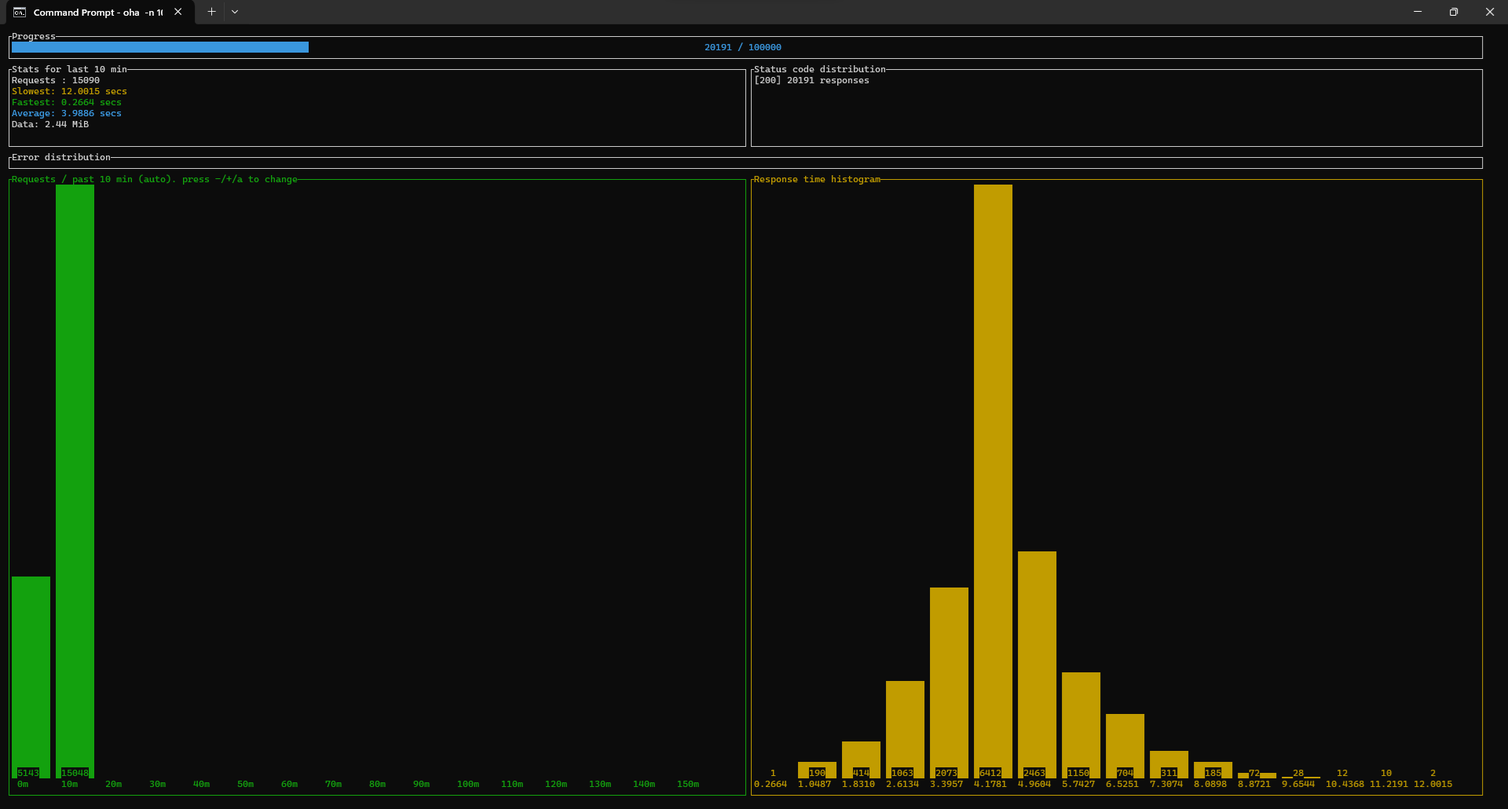
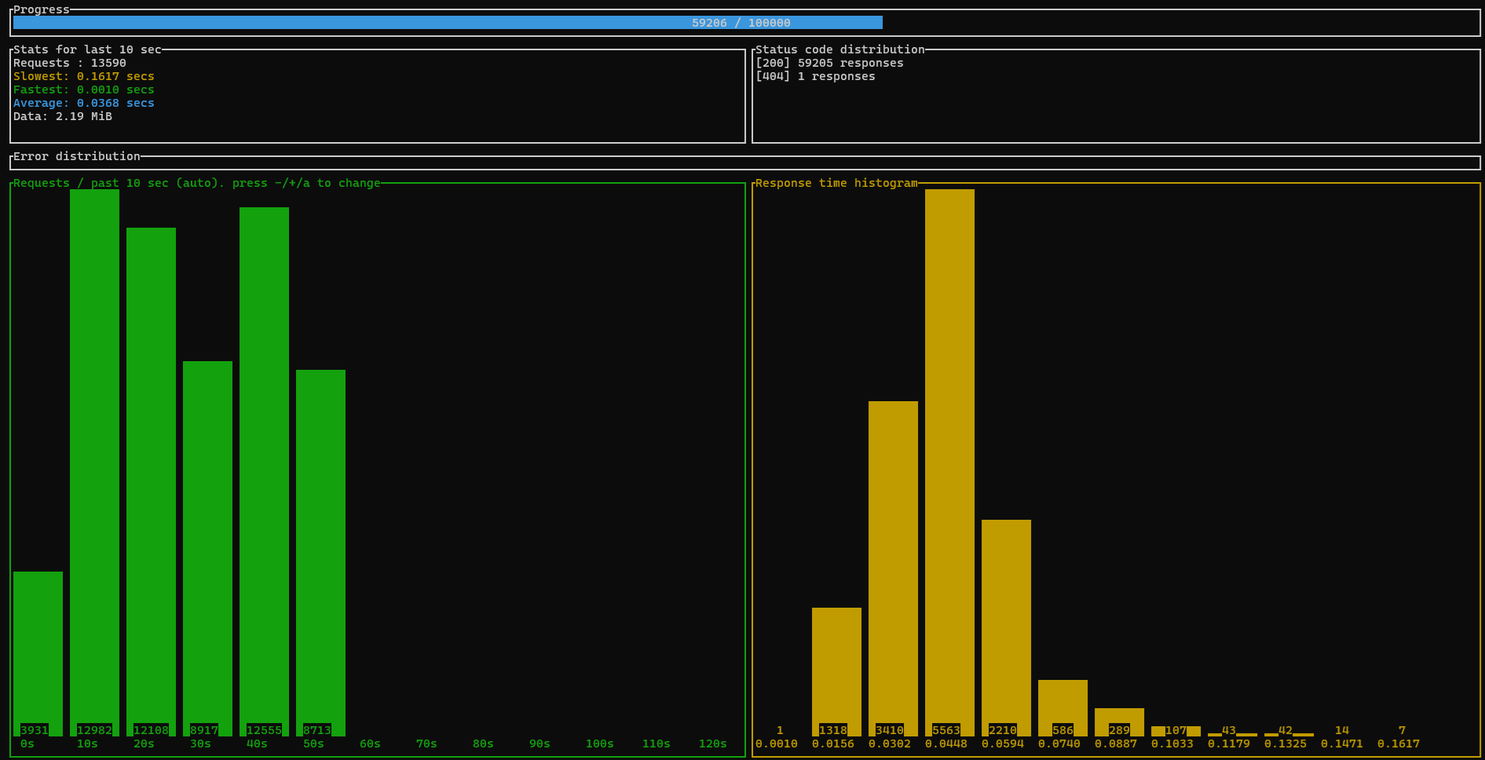
Execution and comparison of various results between OpenJDK & GraalVM

Changed region(s): [[0.0, 0.0, 1.0, 1.0]]

diff --git a/src/main/java/io/jayaprabahar/graalvm/graalvm_performance_test/GraalvmPerformanceTestApplication.java b/src/main/java/io/jayaprabahar/graalvm/graalvm_performance_test/GraalvmPerformanceTestApplication.java
@@ -6,7 +6,7 @@ import org.springframework.boot.autoconfigure.SpringBootApplication;
 @SpringBootApplication
 public class GraalvmPerformanceTestApplication {
 
-	static void main(String[] args) {
+	public static void main(String[] args) {
 		SpringApplication.run(GraalvmPerformanceTestApplication.class, args);
 	}
 

diff --git a/README_GraalVM.md b/README_GraalVM.md
@@ -1,9 +1,17 @@
 # Application using GraalVM JDK 25
 
-## 0. Pre-requesties
+## Pre-requesties
 * Install GraalVM JDK 25 https://www.graalvm.org/latest/getting-started/windows/
 
-## 1. Build
+## 1 Build
+### 1.1 Build Steps
+```
+mvn clean compile
+mvn spring-boot:process-aot
+mvn native:compile
+```
+
+### 1.2 Build Log
 
 ```
   .   ____          _            __ _ _
@@ -143,21 +151,69 @@ Finished generating 'graalvm-performance-test' in 5m 16s.
 [INFO] Total time:  05:45 min
 [INFO] Finished at: 2025-10-17T00:02:57+02:00
 [INFO] ------------------------------------------------------------------------
+```
 
+### 1.3 Build Size
+![screenshot](results_graalvm/build_image_size_GraalVM.png)
+
+### 1.4 Build Time
+![screenshot](results_graalvm/build_time_GraalVM.png)
+
+### 1.5 Build Impact on RAM
+GraalVM Build creation has higher impact on RAM.
+
+This can be tested by adjusting Xmx JVM argument inside org.graalvm.buildtools -> native-maven-plugin.
+
+```
+<plugin>
+    <groupId>org.graalvm.buildtools</groupId>
+    <artifactId>native-maven-plugin</artifactId>
+    .
+    .
+            <buildArg>-J-Xmx16G</buildArg>                      
+```
+#### Build Performance with 2 GB JVM Config
+![screenshot](results_graalvm/build_cpu_2GB_RAM.png)
+#### Build Performance with 16 GB JVM Config
+![screenshot](results_graalvm/build_cpu_16GB_RAM.png)
+#### Build Performance with 32 GB JVM Config
+![screenshot](results_graalvm/build_cpu_32GB_RAM.png)
+
+### 1.5 Build Impact on CPU
+GraalVM Build has higher impact on CPU, due to RAM. This is because after creating usual spring-boot executable jar, it starts native image compilation process. 
+
+```
+[INFO] --- jar:3.4.2:jar (default-jar) @ graalvm-performance-test ---
+[INFO] Building jar: C:\Users\Jayap\IdeaProjects\graalvm-performance-test\target\graalvm-performance-test-0.0.1-SNAPSHOT.jar
+[INFO]
+[INFO] --- spring-boot:4.0.0-SNAPSHOT:repackage (repackage) @ graalvm-performance-test ---
+[INFO] Replacing main artifact C:\Users\Jayap\IdeaProjects\graalvm-performance-test\target\graalvm-performance-test-0.0.1-SNAPSHOT.jar with repackaged archive, adding nested dependencies in BOOT-INF/.
+[INFO] The original artifact has been renamed to C:\Users\Jayap\IdeaProjects\graalvm-performance-test\target\graalvm-performance-test-0.0.1-SNAPSHOT.jar.original
+[INFO]
+[INFO] <<< native:0.11.1:compile (default-cli) < package @ graalvm-performance-test <<<
+[INFO] Found GraalVM installation from GRAALVM_HOME variable.
+[INFO] Downloaded GraalVM reachability metadata repository from file:/C:/Users/Jayap/.m2/repository/org/graalvm/buildtools/graalvm-reachability-metadata/0.11.1/graalvm-reachability-metadata-0.11.1-repository.zip
+```
+
+This requires lot of sequential steps, to finally create a native executable file. (*.exe for windows)
+
+```
+[1/8] Initializing...                                                                                   (18.7s @ 0.29GB)
+[2/8] Performing analysis...  [******]                                                                 (152.3s @ 3.11GB)
+[3/8] Building universe...                                                                              (19.9s @ 3.49GB)
+[4/8] Parsing methods...      [****]                                                                    (15.8s @ 3.78GB)
+[5/8] Inlining methods...     [***]                                                                      (8.1s @ 3.94GB)
+[6/8] Compiling methods...    [**********]                                                              (96.5s @ 3.01GB)
+[7/8] Laying out methods...   [****]                                                                    (19.6s @ 3.87GB)
+[8/8] Creating image...       [****]                                                                    (13.2s @ 4.39GB)
 ```
 
 
-### 1.1 Image Size
-![screenshot](results_jdk/build_image_size_JDK.png)
-
-### 1.1 Time to Build
-![screenshot](build_time_JDK.png)
-
+![screenshot](results_graalvm/build_time_GraalVM.png)
 
 ## 2. Start-up Time
 
 ```
-
   .   ____          _            __ _ _
  /\\ / ___'_ __ _ _(_)_ __  __ _ \ \ \ \
 ( ( )\___ | '_ | '_| | '_ \/ _` | \ \ \ \
@@ -167,65 +223,51 @@ Finished generating 'graalvm-performance-test' in 5m 16s.
 
  :: Spring Boot ::       (v4.0.0-SNAPSHOT)
 
-2025-10-17T00:03:22.139+02:00  INFO 17592 --- [graalvm-performance-test] [           main] [                                                 ] .j.g.g.GraalvmPerformanceTestApplication : Starting AOT-processed GraalvmPerformanceTestApplication using Java 25 with PID 17592 (C:\Users\Jayap\IdeaProjects\graalvm-performance-test\target\graalvm-performance-test.exe started by Jayap in C:\Users\Jayap\IdeaProjects\graalvm-performance-test\target)
-2025-10-17T00:03:22.139+02:00  INFO 17592 --- [graalvm-performance-test] [           main] [                                                 ] .j.g.g.GraalvmPerformanceTestApplication : No active profile set, falling back to 1 default profile: "default"
-2025-10-17T00:03:22.181+02:00  INFO 17592 --- [graalvm-performance-test] [           main] [                                                 ] o.s.boot.tomcat.TomcatWebServer          : Tomcat initialized with port 8080 (http)
-2025-10-17T00:03:22.184+02:00  INFO 17592 --- [graalvm-performance-test] [           main] [                                                 ] o.apache.catalina.core.StandardService   : Starting service [Tomcat]
-2025-10-17T00:03:22.184+02:00  INFO 17592 --- [graalvm-performance-test] [           main] [                                                 ] o.apache.catalina.core.StandardEngine    : Starting Servlet engine: [Apache Tomcat/11.0.13]
-2025-10-17T00:03:22.209+02:00  INFO 17592 --- [graalvm-performance-test] [           main] [                                                 ] b.w.c.s.WebApplicationContextInitializer : Root WebApplicationContext: initialization completed in 69 ms
-2025-10-17T00:03:22.258+02:00  INFO 17592 --- [graalvm-performance-test] [           main] [                                                 ] org.mongodb.driver.client                : MongoClient with metadata {"driver": {"name": "mongo-java-driver|spring-boot|sync", "version": "5.6.1"}, "os": {"type": "Windows", "name": "Windows 11", "architecture": "amd64", "version": "10.0"}, "platform": "Java/Oracle Corporation/25+37-LTS-jvmci-b01"} created with settings MongoClientSettings{readPreference=primary, writeConcern=WriteConcern{w=null, wTimeout=null ms, journal=null}, retryWrites=true, retryReads=true, readConcern=ReadConcern{level=null}, credential=null, transportSettings=null, commandListeners=[io.micrometer.core.instrument.binder.mongodb.MongoMetricsCommandListener@38bbcbc5], codecRegistry=ProvidersCodecRegistry{codecProviders=[ValueCodecProvider{}, BsonValueCodecProvider{}, DBRefCodecProvider{}, DBObjectCodecProvider{}, DocumentCodecProvider{}, CollectionCodecProvider{}, IterableCodecProvider{}, MapCodecProvider{}, GeoJsonCodecProvider{}, GridFSFileCodecProvider{}, Jsr310CodecProvider{}, JsonObjectCodecProvider{}, BsonCodecProvider{}, com.mongodb.client.model.mql.ExpressionCodecProvider@11f69806, com.mongodb.Jep395RecordCodecProvider@7302a632, com.mongodb.KotlinCodecProvider@42d56503, EnumCodecProvider{}]}, loggerSettings=LoggerSettings{maxDocumentLength=1000}, clusterSettings={hosts=[localhost:27017], srvServiceName=mongodb, mode=SINGLE, requiredClusterType=UNKNOWN, requiredReplicaSetName='null', serverSelector='null', clusterListeners='[]', serverSelectionTimeout='30000 ms', localThreshold='15 ms'}, socketSettings=SocketSettings{connectTimeoutMS=10000, readTimeoutMS=0, receiveBufferSize=0, proxySettings=ProxySettings{host=null, port=null, username=null, password=null}}, heartbeatSocketSettings=SocketSettings{connectTimeoutMS=10000, readTimeoutMS=10000, receiveBufferSize=0, proxySettings=ProxySettings{host=null, port=null, username=null, password=null}}, connectionPoolSettings=ConnectionPoolSettings{maxSize=100, minSize=0, maxWaitTimeMS=120000, maxConnectionLifeTimeMS=0, maxConnectionIdleTimeMS=0, maintenanceInitialDelayMS=0, maintenanceFrequencyMS=60000, connectionPoolListeners=[io.micrometer.core.instrument.binder.mongodb.MongoMetricsConnectionPoolListener@1aa31595], maxConnecting=2}, serverSettings=ServerSettings{heartbeatFrequencyMS=10000, minHeartbeatFrequencyMS=500, serverMonitoringMode=AUTO, serverListeners='[]', serverMonitorListeners='[]'}, sslSettings=SslSettings{enabled=false, invalidHostNameAllowed=false, context=null}, applicationName='null', compressorList=[], uuidRepresentation=UNSPECIFIED, serverApi=null, autoEncryptionSettings=null, dnsClient=null, inetAddressResolver=null, contextProvider=null, timeoutMS=null}
-2025-10-17T00:03:22.270+02:00  INFO 17592 --- [graalvm-performance-test] [localhost:27017] [                                                 ] org.mongodb.driver.cluster               : Monitor thread successfully connected to server with description ServerDescription{address=localhost:27017, type=STANDALONE, cryptd=false, state=CONNECTED, ok=true, minWireVersion=0, maxWireVersion=27, maxDocumentSize=16777216, logicalSessionTimeoutMinutes=30, roundTripTimeNanos=2051300, minRoundTripTimeNanos=0}
-2025-10-17T00:03:22.392+02:00  WARN 17592 --- [graalvm-performance-test] [           main] [                                                 ] i.m.c.i.binder.jvm.JvmGcMetrics          : GC notifications will not be available because no GarbageCollectorMXBean of the JVM provides any. GCs=[young generation scavenger, complete scavenger]
-2025-10-17T00:03:22.404+02:00  INFO 17592 --- [graalvm-performance-test] [           main] [                                                 ] o.s.b.a.e.web.EndpointLinksResolver      : Exposing 2 endpoints beneath base path '/actuator'
-2025-10-17T00:03:22.439+02:00  INFO 17592 --- [graalvm-performance-test] [           main] [                                                 ] o.s.boot.tomcat.TomcatWebServer          : Tomcat started on port 8080 (http) with context path '/'
-2025-10-17T00:03:22.442+02:00  INFO 17592 --- [graalvm-performance-test] [           main] [                                                 ] .j.g.g.GraalvmPerformanceTestApplication : Started GraalvmPerformanceTestApplication in 0.333 seconds (process running for 0.367)
+2025-10-20T14:21:37.601+02:00  INFO 15124 --- [graalvm-performance-test] [           main] [                                                 ] .j.g.g.GraalvmPerformanceTestApplication : Starting AOT-processed GraalvmPerformanceTestApplication using Java 25 with PID 15124 (C:\Users\Jayap\IdeaProjects\graalvm-performance-test\target\graalvm-performance-test.exe started by Jayap in C:\Users\Jayap\IdeaProjects\graalvm-performance-test\target)
+2025-10-20T14:21:37.601+02:00  INFO 15124 --- [graalvm-performance-test] [           main] [                                                 ] .j.g.g.GraalvmPerformanceTestApplication : No active profile set, falling back to 1 default profile: "default"
+2025-10-20T14:21:37.642+02:00  INFO 15124 --- [graalvm-performance-test] [           main] [                                                 ] o.s.boot.tomcat.TomcatWebServer          : Tomcat initialized with port 8080 (http)
+2025-10-20T14:21:37.645+02:00  INFO 15124 --- [graalvm-performance-test] [           main] [                                                 ] o.apache.catalina.core.StandardService   : Starting service [Tomcat]
+2025-10-20T14:21:37.645+02:00  INFO 15124 --- [graalvm-performance-test] [           main] [                                                 ] o.apache.catalina.core.StandardEngine    : Starting Servlet engine: [Apache Tomcat/11.0.13]
+2025-10-20T14:21:37.670+02:00  INFO 15124 --- [graalvm-performance-test] [           main] [                                                 ] b.w.c.s.WebApplicationContextInitializer : Root WebApplicationContext: initialization completed in 68 ms
+2025-10-20T14:21:37.702+02:00  INFO 15124 --- [graalvm-performance-test] [           main] [                                                 ] org.mongodb.driver.client                : MongoClient with metadata {"driver": {"name": "mongo-java-driver|spring-boot|sync", "version": "5.6.1"}, "os": {"type": "Windows", "name": "Windows 11", "architecture": "amd64", "version": "10.0"}, "platform": "Java/Oracle Corporation/25+37-LTS-jvmci-b01"} created with settings MongoClientSettings{readPreference=primary, writeConcern=WriteConcern{w=null, wTimeout=null ms, journal=null}, retryWrites=true, retryReads=true, readConcern=ReadConcern{level=null}, credential=null, transportSettings=null, commandListeners=[io.micrometer.core.instrument.binder.mongodb.MongoMetricsCommandListener@39aee617], codecRegistry=ProvidersCodecRegistry{codecProviders=[ValueCodecProvider{}, BsonValueCodecProvider{}, DBRefCodecProvider{}, DBObjectCodecProvider{}, DocumentCodecProvider{}, CollectionCodecProvider{}, IterableCodecProvider{}, MapCodecProvider{}, GeoJsonCodecProvider{}, GridFSFileCodecProvider{}, Jsr310CodecProvider{}, JsonObjectCodecProvider{}, BsonCodecProvider{}, com.mongodb.client.model.mql.ExpressionCodecProvider@30aeb75a, com.mongodb.Jep395RecordCodecProvider@d88b7a4, com.mongodb.KotlinCodecProvider@8ae6c19, EnumCodecProvider{}]}, loggerSettings=LoggerSettings{maxDocumentLength=1000}, clusterSettings={hosts=[localhost:27017], srvServiceName=mongodb, mode=SINGLE, requiredClusterType=UNKNOWN, requiredReplicaSetName='null', serverSelector='null', clusterListeners='[]', serverSelectionTimeout='30000 ms', localThreshold='15 ms'}, socketSettings=SocketSettings{connectTimeoutMS=10000, readTimeoutMS=0, receiveBufferSize=0, proxySettings=ProxySettings{host=null, port=null, username=null, password=null}}, heartbeatSocketSettings=SocketSettings{connectTimeoutMS=10000, readTimeoutMS=10000, receiveBufferSize=0, proxySettings=ProxySettings{host=null, port=null, username=null, password=null}}, connectionPoolSettings=ConnectionPoolSettings{maxSize=100, minSize=0, maxWaitTimeMS=120000, maxConnectionLifeTimeMS=0, maxConnectionIdleTimeMS=0, maintenanceInitialDelayMS=0, maintenanceFrequencyMS=60000, connectionPoolListeners=[io.micrometer.core.instrument.binder.mongodb.MongoMetricsConnectionPoolListener@78d193d1], maxConnecting=2}, serverSettings=ServerSettings{heartbeatFrequencyMS=10000, minHeartbeatFrequencyMS=500, serverMonitoringMode=AUTO, serverListeners='[]', serverMonitorListeners='[]'}, sslSettings=SslSettings{enabled=false, invalidHostNameAllowed=false, context=null}, applicationName='null', compressorList=[], uuidRepresentation=UNSPECIFIED, serverApi=null, autoEncryptionSettings=null, dnsClient=null, inetAddressResolver=null, contextProvider=null, timeoutMS=null}
+2025-10-20T14:21:37.711+02:00  INFO 15124 --- [graalvm-performance-test] [localhost:27017] [                                                 ] org.mongodb.driver.cluster               : Monitor thread successfully connected to server with description ServerDescription{address=localhost:27017, type=STANDALONE, cryptd=false, state=CONNECTED, ok=true, minWireVersion=0, maxWireVersion=27, maxDocumentSize=16777216, logicalSessionTimeoutMinutes=30, roundTripTimeNanos=1120300, minRoundTripTimeNanos=0}
+2025-10-20T14:21:37.757+02:00  WARN 15124 --- [graalvm-performance-test] [           main] [                                                 ] i.m.c.i.binder.jvm.JvmGcMetrics          : GC notifications will not be available because no GarbageCollectorMXBean of the JVM provides any. GCs=[young generation scavenger, complete scavenger]
+2025-10-20T14:21:37.761+02:00  INFO 15124 --- [graalvm-performance-test] [           main] [                                                 ] o.s.b.a.e.web.EndpointLinksResolver      : Exposing 2 endpoints beneath base path '/actuator'
+2025-10-20T14:21:37.776+02:00  INFO 15124 --- [graalvm-performance-test] [           main] [                                                 ] o.s.boot.tomcat.TomcatWebServer          : Tomcat started on port 8080 (http) with context path '/'
+2025-10-20T14:21:37.777+02:00  INFO 15124 --- [graalvm-performance-test] [           main] [                                                 ] .j.g.g.GraalvmPerformanceTestApplication : Started GraalvmPerformanceTestApplication in 0.201 seconds (process running for 0.213)
 ```
 
-## 3. GET API - Fetch 100000 records with concurrency 10 from MongoDB
-
+## 3. GET API - Fetch 100000 records from MongoDB
 ```
-oha -n 100000 -c 10 http://localhost:8080/api/employees
+oha -n 100000 http://localhost:8080/api/employees
 ```
 
 #### Progress
-![screenshot](results_jdk/100000_No_Data_GET_Progress.png)
+![screenshot](results_graalvm/100000_No_Data_GET_Progress.png)
 #### Results
-![screenshot](results_jdk/100000_No_Data_GET_Results.png)
+![screenshot](results_graalvm/100000_No_Data_GET_Results.png)
 
 
 ## 4. POST API - Insert 100000 records into MongoDB
 ```
-oha -n 100000 -c 10 http://localhost:8080/api/employees/new -m POST
+oha -n 100000 http://localhost:8080/api/employees/new -m POST
 ```
 
 #### Progress
-![screenshot](results_jdk/100000_Insert_POST_Progress_1.png)
-![screenshot](results_jdk/100000_Insert_POST_Progress_2.png)
+![screenshot](results_graalvm/100000_Insert_POST_Progress_1.png)
+![screenshot](results_graalvm/100000_Insert_POST_Progress_2.png)
 
 #### Results
-![screenshot](results_jdk/100000_Insert_POST_Results.png)
+![screenshot](results_graalvm/100000_Insert_POST_Results.png)
 
 ## 5. GET API - (After inserting 100000 records)
 ```
-oha -n 100000 -c 100 http://localhost:8080/api/employees/
+oha -n 100000 http://localhost:8080/api/employees/
 ```
 
-#### Progress without Index
-![screenshot](results_jdk/100000_With_Data_GET_Progress_1.png)
-![screenshot](results_jdk/100000_With_Data_GET_Progress_2.png)
+#### Progress
+![screenshot](results_graalvm/100000_With_Data_GET_Progress_1.png)
+![screenshot](results_graalvm/100000_With_Data_GET_Progress_2.png)
 
-#### Results without Index
-![screenshot](results_jdk/100000_With_Data_GET_Results.png)
-![screenshot](results_jdk/CPU_Hung.png)
-
-## 5. GET API - (After inserting 100000 records with index)
-
-### Create Index on empId field in MongoDB 
-![screenshot](results_jdk/Index_Created.png)
-
-#### Progress with Index
-![screenshot](results_jdk/100000_With_Data_GET_Progress_WithIndex_1.png)
-![screenshot](results_jdk/100000_With_Data_GET_Progress_WithIndex_2.png)
-
-#### Results with Index
-![screenshot](results_jdk/100000_With_Data_GET_WithIndex_Results.png)
+#### Results
+![screenshot](results_graalvm/100000_With_Data_GET_Results.png)

diff --git a/README_JDK.md b/README_JDK.md
@@ -6,84 +6,70 @@
 ![screenshot](results_jdk/build_image_size_JDK.png)
 
 ### 1.1 Time to Build
-![screenshot](results_jdk/build_time_JDK.png)
+![screenshot](results_jdk/build_time_jdk.png)
 
 
 ## 2. Start-up Time
 
 ```
-.   ____          _            __ _ _
-/\\ / ___'_ __ _ _(_)_ __  __ _ \ \ \ \
+C:\Users\Jayap\IdeaProjects\graalvm-performance-test\target>java -jar graalvm-performance-test-0.0.1-SNAPSHOT.jar
+
+  .   ____          _            __ _ _
+ /\\ / ___'_ __ _ _(_)_ __  __ _ \ \ \ \
 ( ( )\___ | '_ | '_| | '_ \/ _` | \ \ \ \
-\\/  ___)| |_)| | | | | || (_| |  ) ) ) )
-'  |____| .__|_| |_|_| |_\__, | / / / /
-=========|_|==============|___/=/_/_/_/
+ \\/  ___)| |_)| | | | | || (_| |  ) ) ) )
+  '  |____| .__|_| |_|_| |_\__, | / / / /
+ =========|_|==============|___/=/_/_/_/
 
-:: Spring Boot ::       (v4.0.0-SNAPSHOT)
+ :: Spring Boot ::       (v4.0.0-SNAPSHOT)
 
-2025-10-14T01:20:07.473+02:00  INFO 10192 --- [graalvm-performance-test] [           main] [ ] .j.g.g.GraalvmPerformanceTestApplication : Starting GraalvmPerformanceTestApplication using Java 25 with PID 10192 (C:\Users\Jayap\IdeaProjects\graalvm-performance-test\target\classes started by Jayap in C:\Users\Jayap\IdeaProjects\graalvm-performance-test)
-2025-10-14T01:20:07.482+02:00  INFO 10192 --- [graalvm-performance-test] [           main] [ ] .j.g.g.GraalvmPerformanceTestApplication : No active profile set, falling back to 1 default profile: "default"
-2025-10-14T01:20:08.887+02:00  INFO 10192 --- [graalvm-performance-test] [           main] [ ] .s.d.r.c.RepositoryConfigurationDelegate : Bootstrapping Spring Data MongoDB repositories in DEFAULT mode.
-2025-10-14T01:20:08.972+02:00  INFO 10192 --- [graalvm-performance-test] [           main] [ ] .s.d.r.c.RepositoryConfigurationDelegate : Finished Spring Data repository scanning in 72 ms. Found 1 MongoDB repository interface.
-2025-10-14T01:20:09.593+02:00  INFO 10192 --- [graalvm-performance-test] [           main] [ ] o.s.boot.tomcat.TomcatWebServer          : Tomcat initialized with port 8080 (http)
-2025-10-14T01:20:09.609+02:00  INFO 10192 --- [graalvm-performance-test] [           main] [ ] o.apache.catalina.core.StandardService   : Starting service [Tomcat]
-2025-10-14T01:20:09.610+02:00  INFO 10192 --- [graalvm-performance-test] [           main] [ ] o.apache.catalina.core.StandardEngine    : Starting Servlet engine: [Apache Tomcat/11.0.11]
-2025-10-14T01:20:09.664+02:00  INFO 10192 --- [graalvm-performance-test] [           main] [ ] b.w.c.s.WebApplicationContextInitializer : Root WebApplicationContext: initialization completed in 2041 ms
-2025-10-14T01:20:10.156+02:00  INFO 10192 --- [graalvm-performance-test] [           main] [ ] org.mongodb.driver.client                : MongoClient with metadata {"driver": {"name": "mongo-java-driver|sync|spring-boot", "version": "5.6.0"}, "os": {"type": "Windows", "name": "Windows 11", "architecture": "amd64", "version": "10.0"}, "platform": "Java/Oracle Corporation/25+36-3489"} created with settings MongoClientSettings{readPreference=primary, writeConcern=WriteConcern{w=null, wTimeout=null ms, journal=null}, retryWrites=true, retryReads=true, readConcern=ReadConcern{level=null}, credential=null, transportSettings=null, commandListeners=[io.micrometer.core.instrument.binder.mongodb.MongoMetricsCommandListener@1efac5b9], codecRegistry=ProvidersCodecRegistry{codecProviders=[ValueCodecProvider{}, BsonValueCodecProvider{}, DBRefCodecProvider{}, DBObjectCodecProvider{}, DocumentCodecProvider{}, CollectionCodecProvider{}, IterableCodecProvider{}, MapCodecProvider{}, GeoJsonCodecProvider{}, GridFSFileCodecProvider{}, Jsr310CodecProvider{}, JsonObjectCodecProvider{}, BsonCodecProvider{}, com.mongodb.client.model.mql.ExpressionCodecProvider@11a3a45f, com.mongodb.Jep395RecordCodecProvider@69796bd0, com.mongodb.KotlinCodecProvider@40df6090, EnumCodecProvider{}]}, loggerSettings=LoggerSettings{maxDocumentLength=1000}, clusterSettings={hosts=[localhost:27017], srvServiceName=mongodb, mode=SINGLE, requiredClusterType=UNKNOWN, requiredReplicaSetName='null', serverSelector='null', clusterListeners='[]', serverSelectionTimeout='30000 ms', localThreshold='15 ms'}, socketSettings=SocketSettings{connectTimeoutMS=10000, readTimeoutMS=0, receiveBufferSize=0, proxySettings=ProxySettings{host=null, port=null, username=null, password=null}}, heartbeatSocketSettings=SocketSettings{connectTimeoutMS=10000, readTimeoutMS=10000, receiveBufferSize=0, proxySettings=ProxySettings{host=null, port=null, username=null, password=null}}, connectionPoolSettings=ConnectionPoolSettings{maxSize=100, minSize=0, maxWaitTimeMS=120000, maxConnectionLifeTimeMS=0, maxConnectionIdleTimeMS=0, maintenanceInitialDelayMS=0, maintenanceFrequencyMS=60000, connectionPoolListeners=[io.micrometer.core.instrument.binder.mongodb.MongoMetricsConnectionPoolListener@8c0a23f], maxConnecting=2}, serverSettings=ServerSettings{heartbeatFrequencyMS=10000, minHeartbeatFrequencyMS=500, serverMonitoringMode=AUTO, serverListeners='[]', serverMonitorListeners='[]'}, sslSettings=SslSettings{enabled=false, invalidHostNameAllowed=false, context=null}, applicationName='null', compressorList=[], uuidRepresentation=UNSPECIFIED, serverApi=null, autoEncryptionSettings=null, dnsClient=null, inetAddressResolver=null, contextProvider=null, timeoutMS=null}
-2025-10-14T01:20:10.174+02:00  INFO 10192 --- [graalvm-performance-test] [localhost:27017] [ ] org.mongodb.driver.cluster               : Monitor thread successfully connected to server with description ServerDescription{address=localhost:27017, type=STANDALONE, cryptd=false, state=CONNECTED, ok=true, minWireVersion=0, maxWireVersion=27, maxDocumentSize=16777216, logicalSessionTimeoutMinutes=30, roundTripTimeNanos=31039900, minRoundTripTimeNanos=0}
-2025-10-14T01:20:11.225+02:00  INFO 10192 --- [graalvm-performance-test] [           main] [ ] o.s.b.a.e.web.EndpointLinksResolver      : Exposing 2 endpoints beneath base path '/actuator'
-2025-10-14T01:20:11.301+02:00  INFO 10192 --- [graalvm-performance-test] [           main] [ ] o.s.boot.tomcat.TomcatWebServer          : Tomcat started on port 8080 (http) with context path '/'
-2025-10-14T01:20:11.310+02:00  INFO 10192 --- [graalvm-performance-test] [           main] [ ] .j.g.g.GraalvmPerformanceTestApplication : Started GraalvmPerformanceTestApplication in 4.497 seconds (process running for 6.237)
-2025-10-14T01:20:12.034+02:00  INFO 10192 --- [graalvm-performance-test] [)-192.168.1.202] [ ] o.a.c.c.C.[Tomcat].[localhost].[/]       : Initializing Spring DispatcherServlet 'dispatcherServlet'
-2025-10-14T01:20:12.036+02:00  INFO 10192 --- [graalvm-performance-test] [)-192.168.1.202] [ ] o.s.web.servlet.DispatcherServlet        : Initializing Servlet 'dispatcherServlet'
-2025-10-14T01:20:12.039+02:00  INFO 10192 --- [graalvm-performance-test] [)-192.168.1.202] [ ] o.s.web.servlet.DispatcherServlet        : Completed initialization in 3 ms
+2025-10-20T14:44:59.398+02:00  INFO 7764 --- [graalvm-performance-test] [           main] [                                                 ] .j.g.g.GraalvmPerformanceTestApplication : Starting GraalvmPerformanceTestApplication v0.0.1-SNAPSHOT using Java 25 with PID 7764 (C:\Users\Jayap\IdeaProjects\graalvm-performance-test\target\graalvm-performance-test-0.0.1-SNAPSHOT.jar started by Jayap in C:\Users\Jayap\IdeaProjects\graalvm-performance-test\target)
+2025-10-20T14:44:59.412+02:00  INFO 7764 --- [graalvm-performance-test] [           main] [                                                 ] .j.g.g.GraalvmPerformanceTestApplication : No active profile set, falling back to 1 default profile: "default"
+2025-10-20T14:45:00.849+02:00  INFO 7764 --- [graalvm-performance-test] [           main] [                                                 ] .s.d.r.c.RepositoryConfigurationDelegate : Bootstrapping Spring Data MongoDB repositories in DEFAULT mode.
+2025-10-20T14:45:00.959+02:00  INFO 7764 --- [graalvm-performance-test] [           main] [                                                 ] .s.d.r.c.RepositoryConfigurationDelegate : Finished Spring Data repository scanning in 90 ms. Found 1 MongoDB repository interface.
+2025-10-20T14:45:01.732+02:00  INFO 7764 --- [graalvm-performance-test] [           main] [                                                 ] o.s.boot.tomcat.TomcatWebServer          : Tomcat initialized with port 8080 (http)
+2025-10-20T14:45:01.758+02:00  INFO 7764 --- [graalvm-performance-test] [           main] [                                                 ] o.apache.catalina.core.StandardService   : Starting service [Tomcat]
+2025-10-20T14:45:01.758+02:00  INFO 7764 --- [graalvm-performance-test] [           main] [                                                 ] o.apache.catalina.core.StandardEngine    : Starting Servlet engine: [Apache Tomcat/11.0.13]
+2025-10-20T14:45:01.817+02:00  INFO 7764 --- [graalvm-performance-test] [           main] [                                                 ] b.w.c.s.WebApplicationContextInitializer : Root WebApplicationContext: initialization completed in 2258 ms
+2025-10-20T14:45:02.423+02:00  INFO 7764 --- [graalvm-performance-test] [           main] [                                                 ] org.mongodb.driver.client                : MongoClient with metadata {"driver": {"name": "mongo-java-driver|spring-boot|sync", "version": "5.6.1"}, "os": {"type": "Windows", "name": "Windows 11", "architecture": "amd64", "version": "10.0"}, "platform": "Java/Oracle Corporation/25+37-LTS-jvmci-b01"} created with settings MongoClientSettings{readPreference=primary, writeConcern=WriteConcern{w=null, wTimeout=null ms, journal=null}, retryWrites=true, retryReads=true, readConcern=ReadConcern{level=null}, credential=null, transportSettings=null, commandListeners=[io.micrometer.core.instrument.binder.mongodb.MongoMetricsCommandListener@415d88de], codecRegistry=ProvidersCodecRegistry{codecProviders=[ValueCodecProvider{}, BsonValueCodecProvider{}, DBRefCodecProvider{}, DBObjectCodecProvider{}, DocumentCodecProvider{}, CollectionCodecProvider{}, IterableCodecProvider{}, MapCodecProvider{}, GeoJsonCodecProvider{}, GridFSFileCodecProvider{}, Jsr310CodecProvider{}, JsonObjectCodecProvider{}, BsonCodecProvider{}, com.mongodb.client.model.mql.ExpressionCodecProvider@a0bf272, com.mongodb.Jep395RecordCodecProvider@4a89ef44, com.mongodb.KotlinCodecProvider@310a7859, EnumCodecProvider{}]}, loggerSettings=LoggerSettings{maxDocumentLength=1000}, clusterSettings={hosts=[localhost:27017], srvServiceName=mongodb, mode=SINGLE, requiredClusterType=UNKNOWN, requiredReplicaSetName='null', serverSelector='null', clusterListeners='[]', serverSelectionTimeout='30000 ms', localThreshold='15 ms'}, socketSettings=SocketSettings{connectTimeoutMS=10000, readTimeoutMS=0, receiveBufferSize=0, proxySettings=ProxySettings{host=null, port=null, username=null, password=null}}, heartbeatSocketSettings=SocketSettings{connectTimeoutMS=10000, readTimeoutMS=10000, receiveBufferSize=0, proxySettings=ProxySettings{host=null, port=null, username=null, password=null}}, connectionPoolSettings=ConnectionPoolSettings{maxSize=100, minSize=0, maxWaitTimeMS=120000, maxConnectionLifeTimeMS=0, maxConnectionIdleTimeMS=0, maintenanceInitialDelayMS=0, maintenanceFrequencyMS=60000, connectionPoolListeners=[io.micrometer.core.instrument.binder.mongodb.MongoMetricsConnectionPoolListener@1cbc1dde], maxConnecting=2}, serverSettings=ServerSettings{heartbeatFrequencyMS=10000, minHeartbeatFrequencyMS=500, serverMonitoringMode=AUTO, serverListeners='[]', serverMonitorListeners='[]'}, sslSettings=SslSettings{enabled=false, invalidHostNameAllowed=false, context=null}, applicationName='null', compressorList=[], uuidRepresentation=UNSPECIFIED, serverApi=null, autoEncryptionSettings=null, dnsClient=null, inetAddressResolver=null, contextProvider=null, timeoutMS=null}
+2025-10-20T14:45:02.470+02:00  INFO 7764 --- [graalvm-performance-test] [localhost:27017] [                                                 ] org.mongodb.driver.cluster               : Monitor thread successfully connected to server with description ServerDescription{address=localhost:27017, type=STANDALONE, cryptd=false, state=CONNECTED, ok=true, minWireVersion=0, maxWireVersion=27, maxDocumentSize=16777216, logicalSessionTimeoutMinutes=30, roundTripTimeNanos=40895700, minRoundTripTimeNanos=0}
+2025-10-20T14:45:03.749+02:00  INFO 7764 --- [graalvm-performance-test] [           main] [                                                 ] o.s.b.a.e.web.EndpointLinksResolver      : Exposing 2 endpoints beneath base path '/actuator'
+2025-10-20T14:45:03.853+02:00  INFO 7764 --- [graalvm-performance-test] [           main] [                                                 ] o.s.boot.tomcat.TomcatWebServer          : Tomcat started on port 8080 (http) with context path '/'
+2025-10-20T14:45:03.872+02:00  INFO 7764 --- [graalvm-performance-test] [           main] [                                                 ] .j.g.g.GraalvmPerformanceTestApplication : Started GraalvmPerformanceTestApplication in 5.304 seconds (process running for 6.325)
 ```
 
-## 3. GET API - Fetch 1000000 records with concurrency 10 from MongoDB
+## 3. GET API - Fetch 100000 records from MongoDB
 
 ```
-oha -n 1000000 -c 10 http://localhost:8080/api/employees
+oha -n 100000 http://localhost:8080/api/employees
 ```
 
 #### Progress
-![screenshot](results_jdk/1000000_No_Data_GET_Progress.png)
+![screenshot](results_jdk/100000_No_Data_GET_Progress.png)
 #### Results
-![screenshot](results_jdk/1000000_No_Data_GET_Results.png)
+![screenshot](results_jdk/100000_No_Data_GET_Results.png)
 
 
-## 4. POST API - Insert 1000000 records into MongoDB
+## 4. POST API - Insert 100000 records into MongoDB
 ```
-oha -n 1000000 -c 10 http://localhost:8080/api/employees/new -m POST
+oha -n 100000 http://localhost:8080/api/employees/new -m POST
 ```
 
 #### Progress
-![screenshot](results_jdk/1000000_Insert_POST_Progress_1.png)
-![screenshot](results_jdk/1000000_Insert_POST_Progress_2.png)
+![screenshot](results_jdk/100000_Insert_POST_Progress_1.png)
+![screenshot](results_jdk/100000_Insert_POST_Progress_2.png)
 
 #### Results
-![screenshot](results_jdk/1000000_Insert_POST_Results.png)
+![screenshot](results_jdk/100000_Insert_POST_Results.png)
 
-## 5. GET API - (After inserting 1000000 records)
+## 5. GET API - (After inserting 100000 records)
 ```
-oha -n 1000000 -c 100 http://localhost:8080/api/employees/
+oha -n 1000000 http://localhost:8080/api/employees/
 ```
-
-#### Progress without Index
-![screenshot](results_jdk/1000000_With_Data_GET_Progress_1.png)
-![screenshot](results_jdk/1000000_With_Data_GET_Progress_2.png)
-
-#### Results without Index
-![screenshot](results_jdk/1000000_With_Data_GET_Results.png)
-![screenshot](results_jdk/CPU_Hung.png)
-
-## 5. GET API - (After inserting 1000000 records with index)
-
-### Create Index on empId field in MongoDB 
-![screenshot](results_jdk/Index_Created.png)
 
 #### Progress with Index
-![screenshot](results_jdk/1000000_With_Data_GET_Progress_WithIndex_1.png)
-![screenshot](results_jdk/1000000_With_Data_GET_Progress_WithIndex_2.png)
+![screenshot](results_jdk/100000_With_Data_GET_Progress_1.png)
+![screenshot](results_jdk/100000_With_Data_GET_Progress_2.png)
 
 #### Results with Index
-![screenshot](results_jdk/1000000_With_Data_GET_WithIndex_Results.png)
+![screenshot](results_jdk/100000_With_Data_GET_Results.png)

diff --git a/README.md b/README.md
@@ -1,12 +1,13 @@
 # GraalVM - OpenJDK Performance comparison
 
-### Intro
+# 1. Intro
+## 1.1 Brief
 * To compare the performance of JDK & GraalVM Native Image.
 * Created a Simple Employee CRUD API application using SpringBoot 4.0.0 and Java 25. 
 * Created controller, Service, Repository & Entity Classes.
 * CRUD operations with MongoDB.
 
-### Created few APIs for testing:
+## 1.2 Created few APIs for testing:
 1. POST /api/employees/new - Create new employee
 2. GET /api/employees/ - Fetch employee by random empId
 3. GET /api/employees/{id} - Fetch employee by id
@@ -14,16 +15,51 @@
 5. PUT /api/employees/{id} - Update employee by id
 6. DELETE /api/employees/{id} - Delete employee by id
 
-### Testing
+## 1.3 Testing
 * We are going to test only first 2 endpoints.
 * We are going to use oha tool to do load testing on these APIs.
 
-## Installation of oha
+## 1.4 Installation of oha
 oha is a tiny TUI based program that sends some load to a web application and show realtime tui inspired by rakyll/hey.
 We are going to use this tool for load testing our application.
 
 https://github.com/hatoo/oha
 
-Installation: -
-
 ![screenshot](results_jdk/install_oha.png)
+
+# 2. Tests of OpenJDK & GraalVM
+## 2.1 README for JDK 
+[README_JDK.md](README_JDK.md)
+## 2.2 README for GraalVM 
+[README_GraalVM.md](README_GraalVM.md)
+
+# 3. NFR Analysis
+
+## 3.1 Performance improvement due to Startup Time
+* GET with no data (Startup from BareMetel):-
+![screenshot](results_comparision/comparision_startup_time_GET_NoData.png)
+
+## 3.2 Performance before and after Startup from baremetel
+* GET with data (Startup from BareMetel):-
+  ![screenshot](results_comparision/comparision_startup_time_GET_WithData.png)
+* POST (Already started springBoot Server):-
+  Once application warmed up from BareMetal, Performance between GraalVM and OpenJDK is almost same. Because there is no warmup time delay.
+  ![screenshot](results_comparision/comparision_startup_time_POST.png)
+
+## 3.3 Memory Footprint
+![screenshot](results_comparision/comparision_memory_footprint_oracle.png)
+
+## 3.4 Startup Time - Benchmarked
+![screenshot](results_comparision/comparision_startup_time_oracle.png)
+
+* Better performance with no code changes
+* Lower memory Footprint
+* Fastest Startup Time
+* Supported in all industry-leading Java application frameworks & Cloud Platforms
+* Improved Security
+
+## TradeOff
+* GraalVM requires tools to creative native images. Eg:- VS Code & C++ tools for Windows.
+* While GraalVM provide better performance and startup time, the native image compilation process takes longer time. This will increase CICD time.
+* Efficient for smaller applications
+* No thread dump and heap dump support
